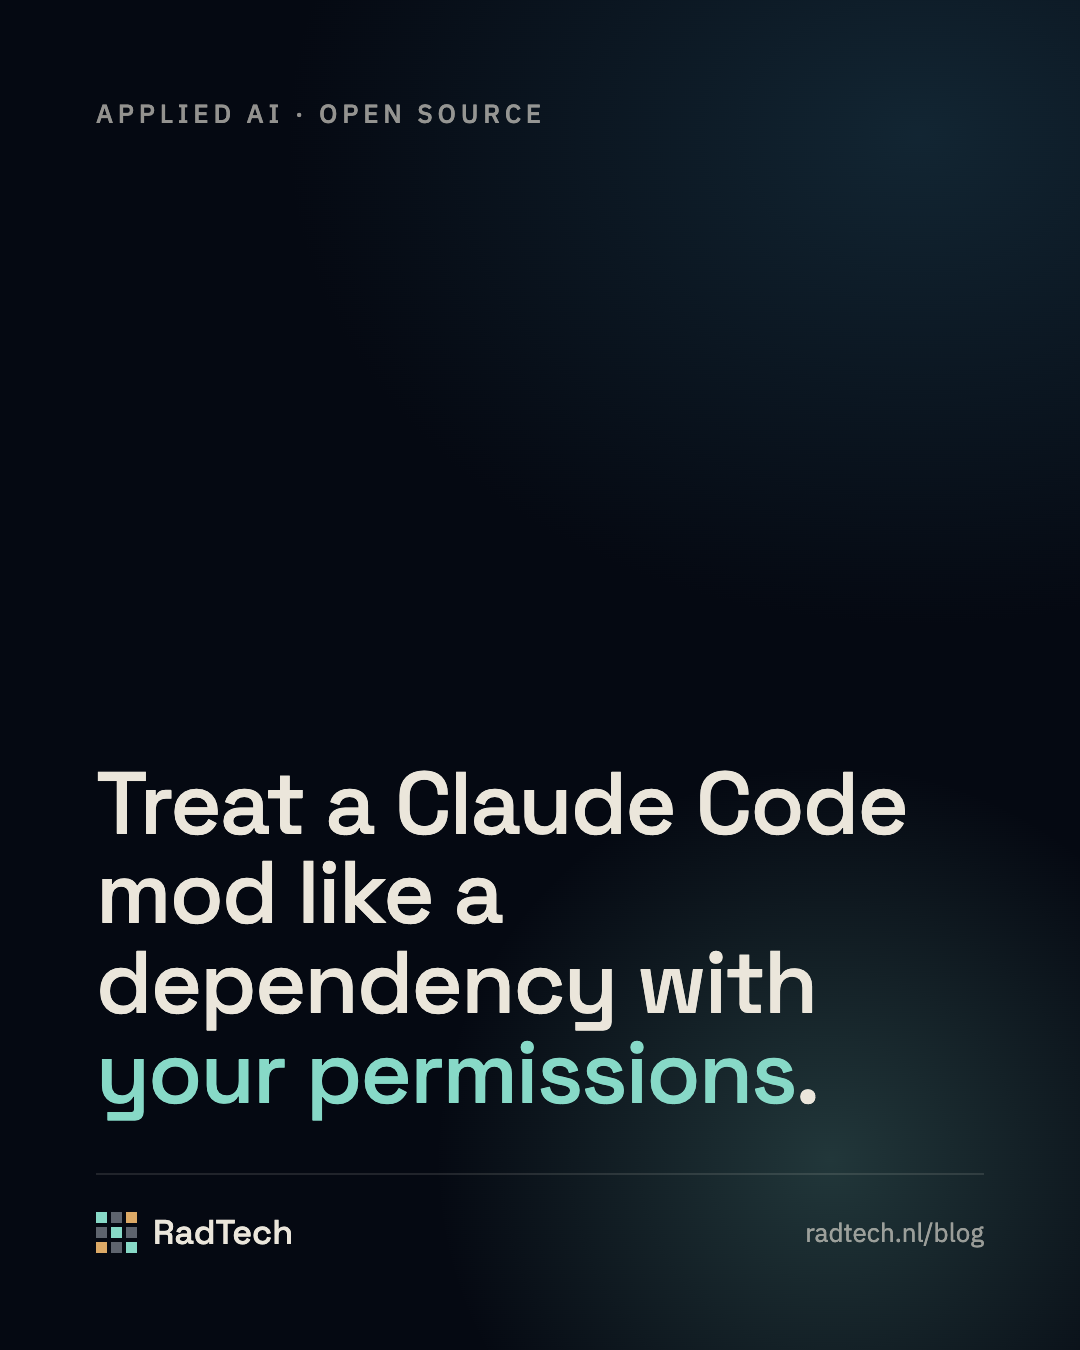
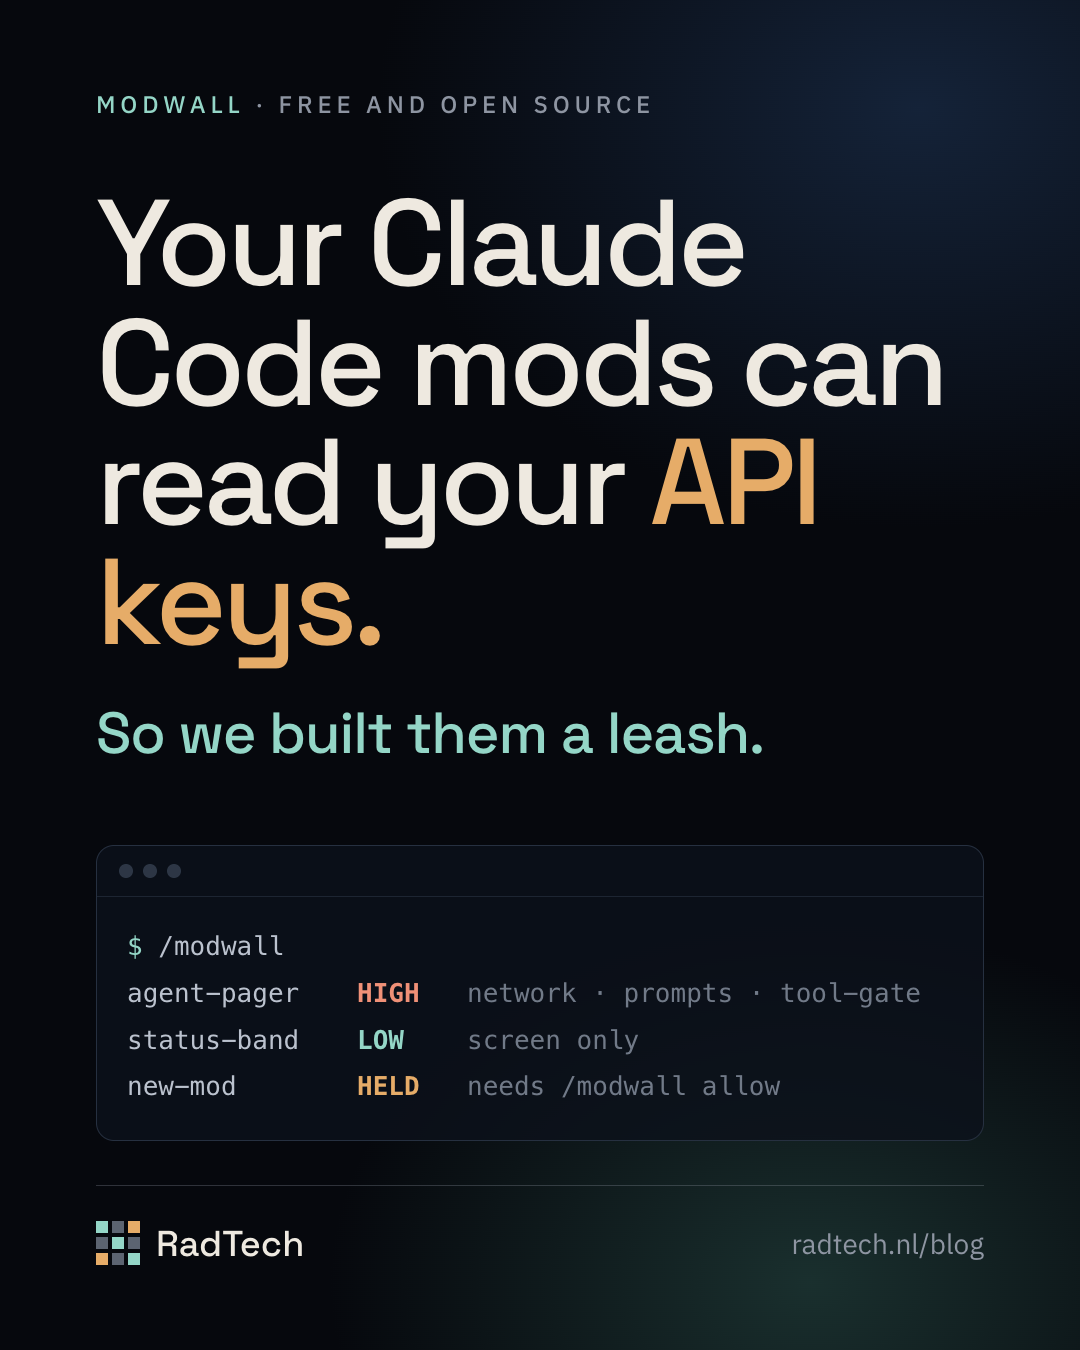
Blog: new cover for the modwall post

diff --git a/blog/treat-a-claude-code-mod-like-a-dependency-with-your-permissions/index.html b/blog/treat-a-claude-code-mod-like-a-dependency-with-your-permissions/index.html
@@ -18,14 +18,14 @@
 <meta property="og:image:type" content="image/png" />
 <meta property="og:image:width" content="1080" />
 <meta property="og:image:height" content="1350" />
-<meta property="og:image:alt" content="RadTech card: Treat a Claude Code mod like a dependency with your permissions." />
+<meta property="og:image:alt" content="RadTech card: Your Claude Code mods can read your API keys. So we built them a leash. A terminal shows modwall rating mods high, low and held." />
 <meta property="article:published_time" content="2026-10-09" />
 <meta property="article:section" content="Applied AI" />
 <meta name="twitter:card" content="summary_large_image" />
 <meta name="twitter:title" content="Treat a Claude Code mod like a dependency with your permissions" />
 <meta name="twitter:description" content="Claude Code mods run with your permissions and no sandbox. What a mod can reach, and how modwall shows it and holds or refuses mods by policy." />
 <meta name="twitter:image" content="https://radtech.nl/blog/treat-a-claude-code-mod-like-a-dependency-with-your-permissions/card.png" />
-<meta name="twitter:image:alt" content="RadTech card: Treat a Claude Code mod like a dependency with your permissions." />
+<meta name="twitter:image:alt" content="RadTech card: Your Claude Code mods can read your API keys. So we built them a leash. A terminal shows modwall rating mods high, low and held." />
 <meta name="theme-color" content="#0B1322" />
 <script type="application/ld+json">{"@context":"https://schema.org","@type":"BlogPosting","headline":"Treat a Claude Code mod like a dependency with your permissions","description":"Claude Code mods run with your permissions and no sandbox. What a mod can reach, and how modwall shows it and holds or refuses mods by policy.","datePublished":"2026-10-09","dateModified":"2026-10-09","image":{"@type":"ImageObject","url":"https://radtech.nl/blog/treat-a-claude-code-mod-like-a-dependency-with-your-permissions/card.png","width":1080,"height":1350},"url":"https://radtech.nl/blog/treat-a-claude-code-mod-like-a-dependency-with-your-permissions/","mainEntityOfPage":{"@type":"WebPage","@id":"https://radtech.nl/blog/treat-a-claude-code-mod-like-a-dependency-with-your-permissions/"},"articleSection":"Applied AI","wordCount":1450,"inLanguage":"en","author":{"@type":"Organization","name":"RadTech","url":"https://radtech.nl/"},"publisher":{"@type":"Organization","name":"RadTech","url":"https://radtech.nl/","email":"contact@radtech.nl"},"isPartOf":{"@type":"Blog","name":"RadTech blog","url":"https://radtech.nl/blog/"}}</script>
 <script>try { if (localStorage.getItem('rt-theme') === 'light') document.documentElement.classList.add('light'); } catch (e) {}</script>
@@ -285,7 +285,7 @@ footer.site-footer { padding: 46px 0 36px; background: var(--bg-2); }
           </div>
         </div>
         <figure class="post-card">
-          <img src="card.png" alt="RadTech card: Treat a Claude Code mod like a dependency with your permissions." width="1080" height="1350" />
+          <img src="card.png" alt="RadTech card: Your Claude Code mods can read your API keys. So we built them a leash. A terminal shows modwall rating mods high, low and held." width="1080" height="1350" />
         </figure>
       </header>
 
